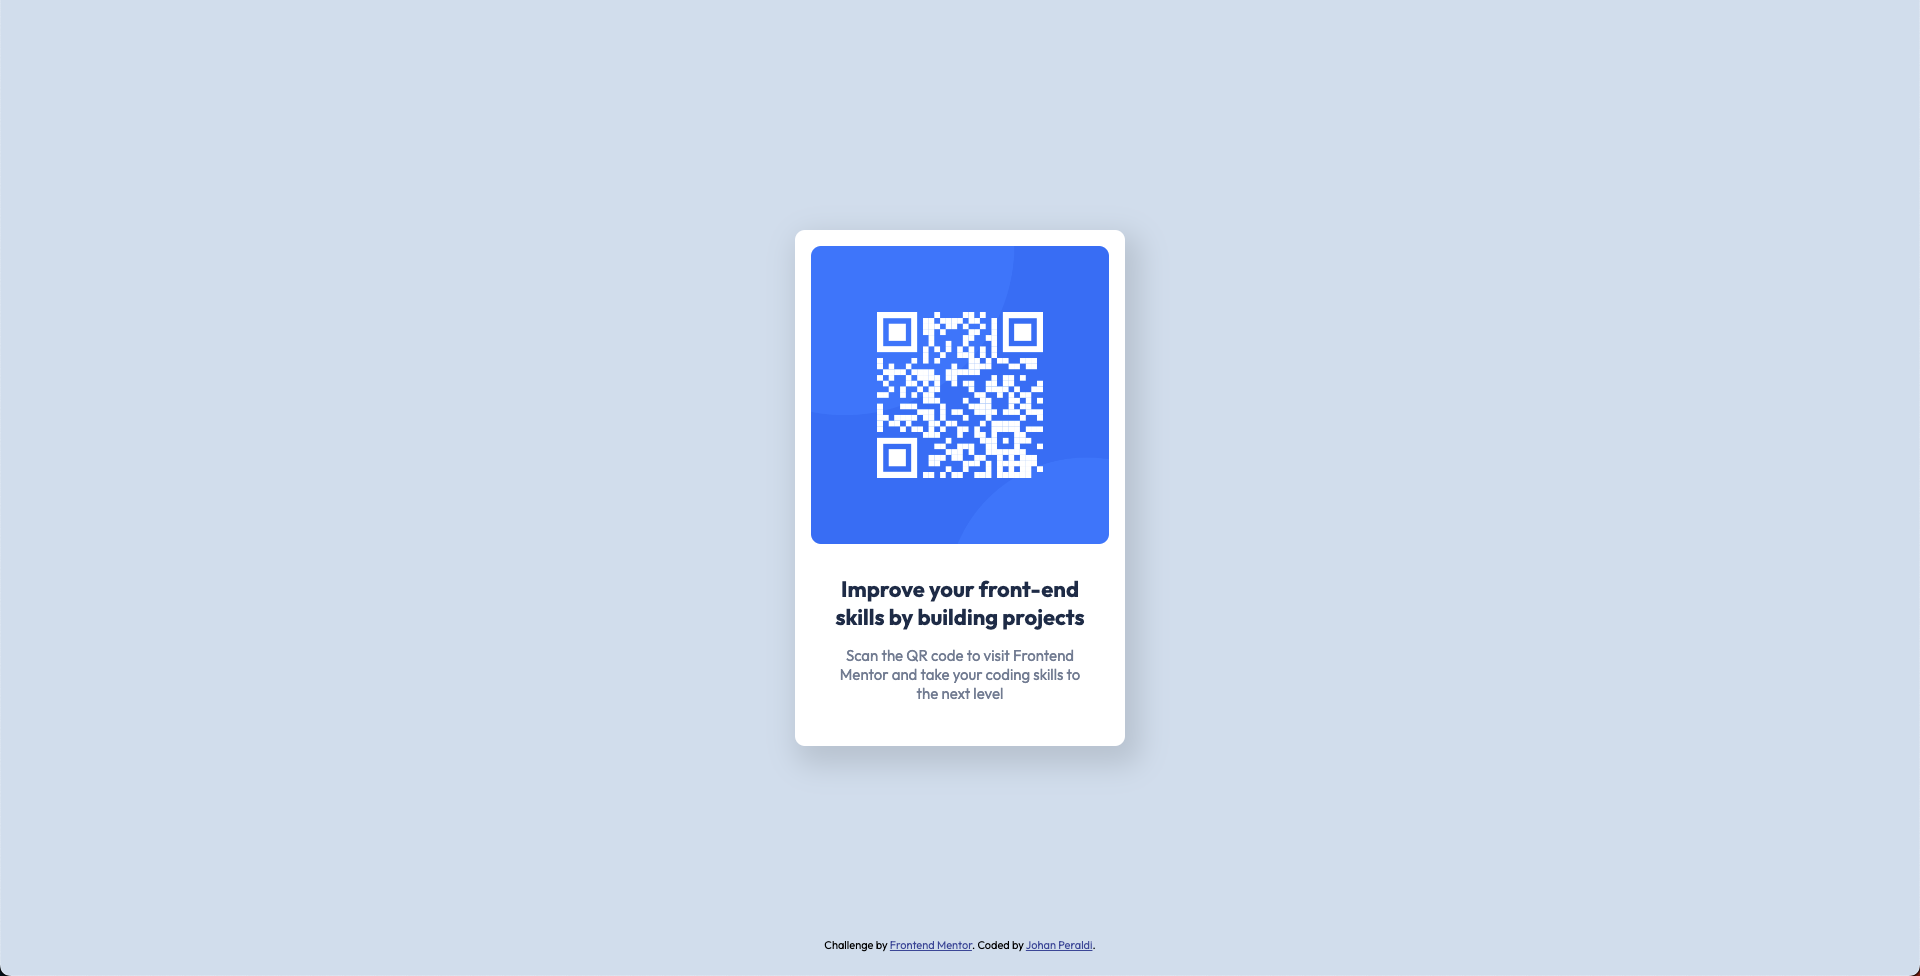
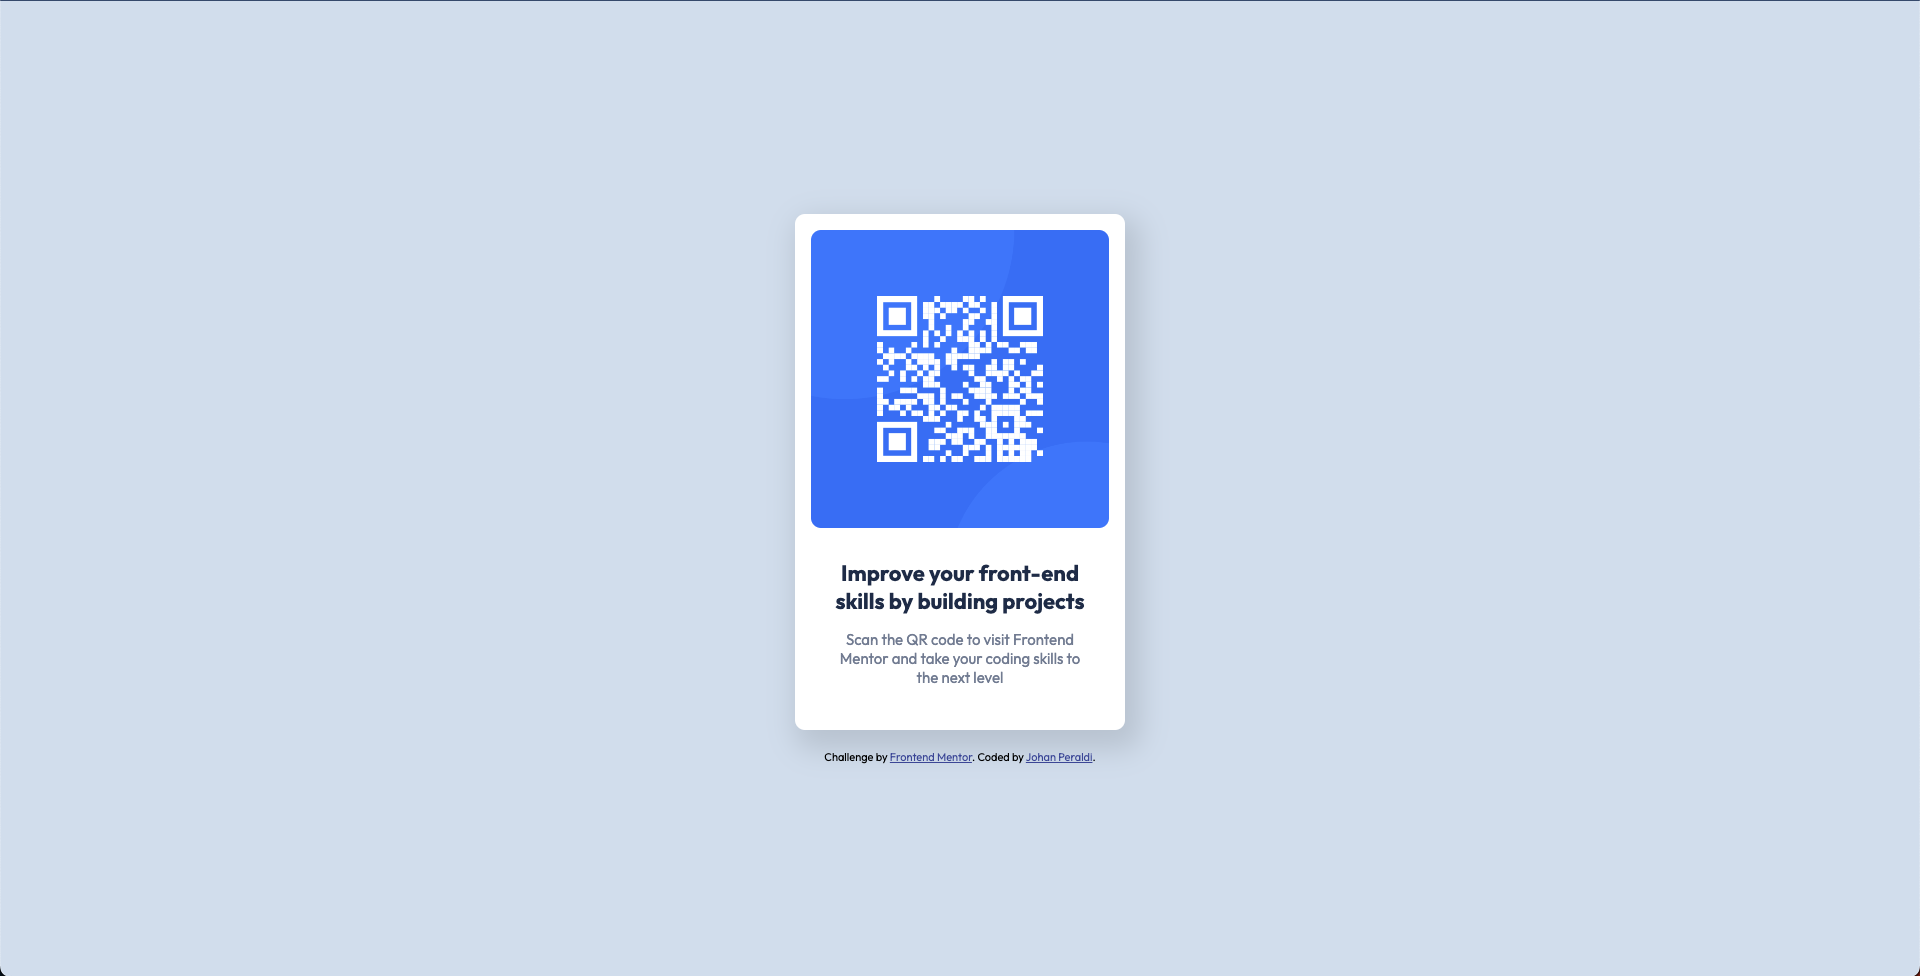
Update screenshots and README

diff --git a/README.md b/README.md
@@ -5,7 +5,7 @@ This is a solution to the [QR code component challenge on Frontend Mentor](https
 ## Table of contents
 
 - [Overview](#overview)
-  - [Screenshot](#screenshot)
+  - [Screenshots](#screenshots)
   - [Links](#links)
 - [My process](#my-process)
   - [Built with](#built-with)
@@ -14,19 +14,17 @@ This is a solution to the [QR code component challenge on Frontend Mentor](https
 - [Author](#author)
 - [Acknowledgments](#acknowledgments)
 
-**Note: Delete this note and update the table of contents based on what sections you keep.**
-
 ## Overview
 
-### Screenshot
+### Screenshots
 
-> Desktop view:
+Desktop view:
 >
->![](./screenshots/Screenshot_desktop_view.png)
+![](./screenshots/Screenshot_desktop_view.png)
 
->Mobile view:
+Mobile view:
 >
->![](./screenshots/Screenshot_mobile_view.png)
+![](./screenshots/Screenshot_mobile_view.png)
 
 ### Links
 
@@ -59,4 +57,4 @@ It's always good to go back to the fundamentals and practice positioning element
 
 ## Acknowledgments
 
-I want to thank my code editor, VS Code, without which I would probably not be here today, as well as GitHub Copilot for helping me out with this challenge as it has with so many other projects. You guys are awesome! I also want to thank the Frontend Mentor community for providing me with the opportunity to practice my skills and learn new things.
+Thanks to [@hitmorecode](https://www.frontendmentor.io/profile/hitmorecode) for pointing out a much simpler solution to the footer positioning. I also want to thank my code editor, VS Code, without which I would probably not be here today, as well as GitHub Copilot for helping me out with this challenge as it has with so many other projects. You guys are awesome! I also want to thank the Frontend Mentor community for providing me with the opportunity to practice my skills and learn new things.
